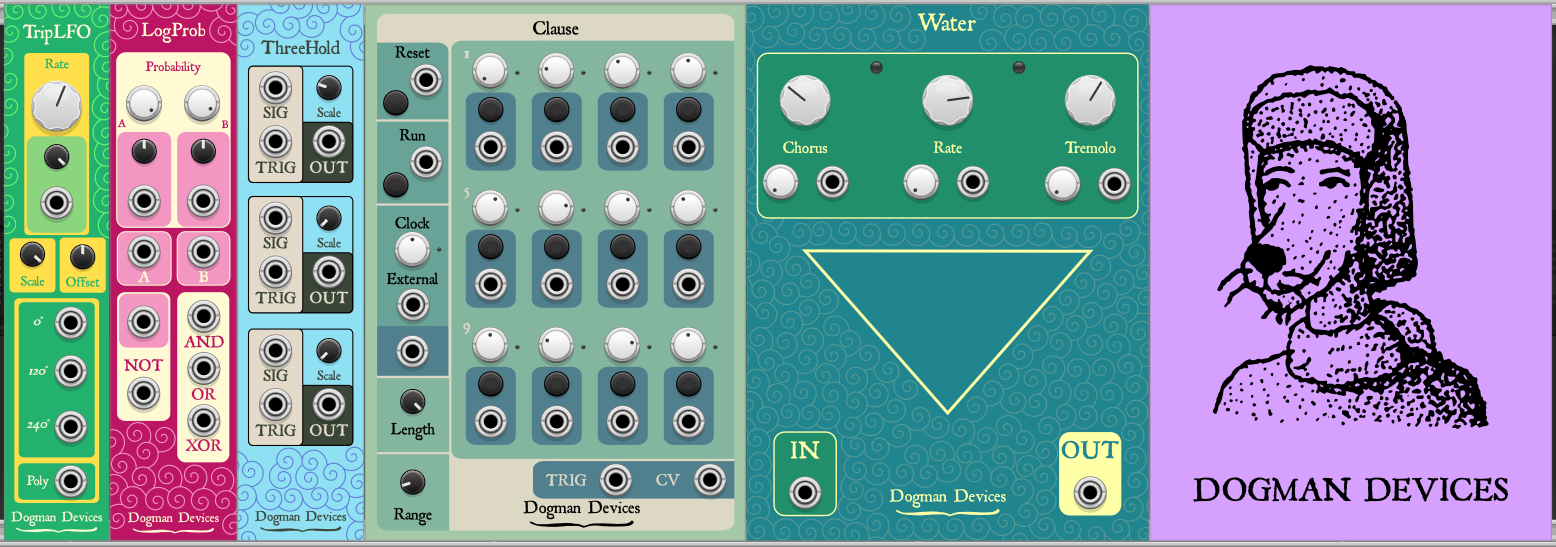
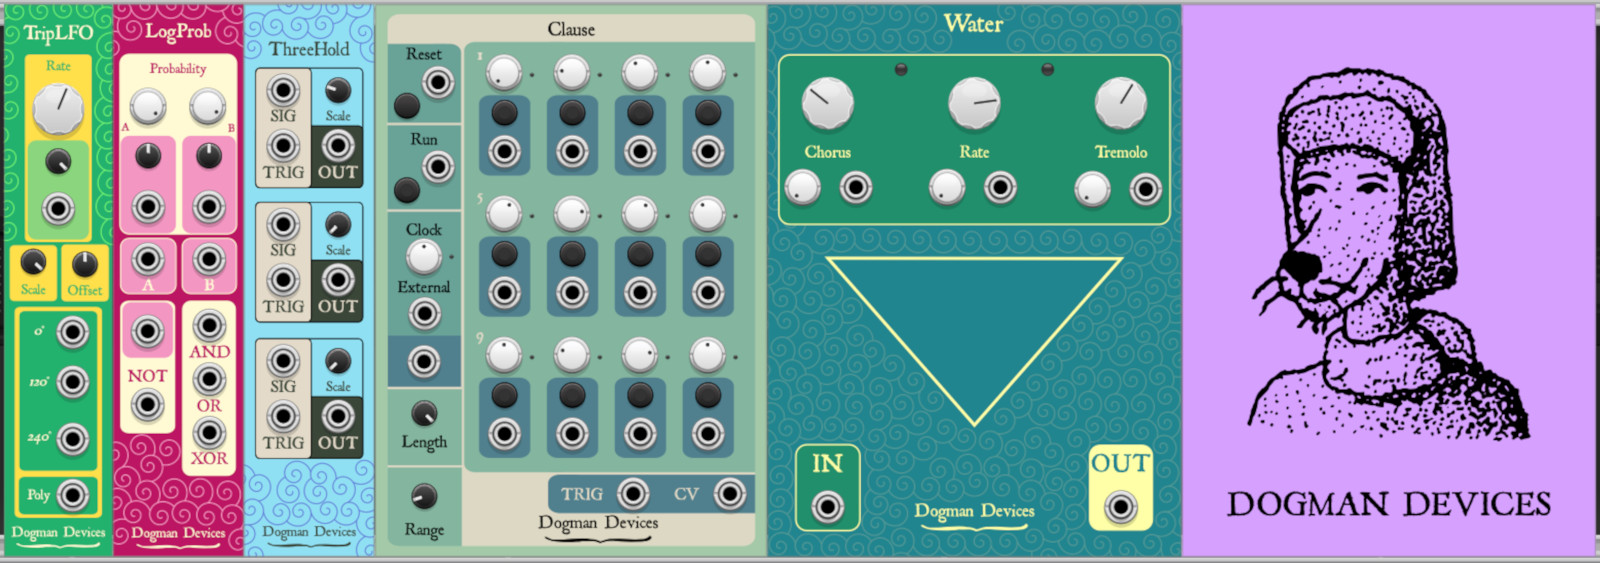
update sytle; add recent projects;

diff --git a/pages/software/software.html b/pages/software/software.html
@@ -30,53 +30,71 @@
       <h1>SOFTWARE</h1>
       <p style="text-align: center;">Examine my code on <a href="https://github.com/lancemgiles" target="_blank">Github</a>.</p>
       <p>I initially became interested in software through video games. It seemed like an interesting way to combine several of my interests.</p>
-      <p>I am releasing my first game, Deodar, on Steam on July 15, 2025.</p>
-      <p>I have experience with Godot (GDscript), Lua, Python, JavaScript, CSS, HTML, Ruby, and Assembly.</p>
-      <p>I've had some exposure to Java, C, C++ and C#.</p>
+      <p>I have built and shipped one <a href="../deodar/deodar.html">game</a> on Steam and one <a href="https://play.google.com/store/apps/details?id=com.gilessoft.ichingintuition" target="_blank">Android app</a> using Godot.</p>
+      <p>I am designing and <a href="https://github.com/lancemgiles/Dogman-Devices-Rack" target="_blank">coding</a> some virtual modular synthesizer modules for <a href="https://vcvrack.com/" target="_blank">VCV Rack</a> using C++.</p>
+      <p>I have experience with Godot (GDscript and C#), C++, JavaScript, CSS, HTML, and Assembly.</p>
+      <p>I've had some exposure to Java, C, Lua, Python, and Ruby.</p>
+      <p>I've completed courses on HTML, CSS, JavaScript, and React, and I am working on a certificate for foundational C#.</p>
       <div class="row software">
-        <a href="../deodar/deodar.html" class="project">
+        <a class="col" href="../deodar/deodar.html" class="project">
          <figure>
-          <img src="./images/deodar.png" alt="Deodar">
+          <img src="./images/deodar.png" alt="Deodar for Steam">
           <figcaption>Deodar (Steam)</figcaption>
          </figure>
         </a>
-        <a href="https://www.dogmandevices.com/sequencer" target="_blank" class="project">
+        <a class="col"href="https://play.google.com/store/apps/details?id=com.gilessoft.ichingintuition" class="project">
+         <figure>
+          <img src="./images/i_ching.png" alt="I Ching: Intuition for Android">
+          <figcaption>I Ching: Intuition (Android)</figcaption>
+         </figure>
+        </a>
+        <a class="col"href="https://github.com/lancemgiles/Dogman-Devices-Rack" class="project">
+         <figure>
+          <img src="../design/images/rack_modules.png" alt="Dogman Devices VCV Rack Modules">
+          <figcaption>Dogman Devices (VCV Rack)</figcaption>
+         </figure>
+        </a>
+      </div>
+      <div class="row software">
+        <a class="col" href="https://www.dogmandevices.com/sequencer" target="_blank" class="project">
           <figure>
             <img src="./images/sequencer.png" alt="JavaScript Step Sequencer">
             <figcaption> Sequencer</figcaption>
           </figure>
         </a>
-        <a href="https://github.com/lancemgiles/hex2eeprom/tree/main" target="_blank" class="project">
+        <a class="col" href="https://github.com/lancemgiles/hex2eeprom/tree/main" target="_blank" class="project">
           <figure>          
             <img src="./images/hex2eeprom.png" alt="Simple script for digital guitar pedals">
             <figcaption>hex2eeprom</figcaption>
           </figure>
         </a>
-        <a href="./projects/rock-paper-scissors/index.html" target="_blank" class="project">
+        <a class="col" href="./projects/rock-paper-scissors/index.html" target="_blank" class="project">
           <figure>          
             <img src="./images/rps.png" alt="rock, paper, scissors">
             <figcaption>Rock, Paper, Scissors</figcaption>
           </figure>
         </a>
-        <a href="./projects/sketch/sketch.html" target="_blank" class="project">
+      </div>
+      <div class="row software">
+        <a class="col" href="./projects/sketch/sketch.html" target="_blank" class="project">
           <figure>
             <img src="./images/sketch.png" alt="sketch">
             <figcaption>Sketch</figcaption>
           </figure>
         </a>
-        <a href="./projects/crystalOracle/crystalOracle.html" target="_blank" class="project">
+        <a class="col" href="./projects/crystalOracle/crystalOracle.html" target="_blank" class="project">
           <figure>
             <img src="./images/crystalOracle.png" alt="Ask the crystal ball.">
             <figcaption>Crystal Oracle</figcaption>
           </figure>
         </a>
-        <a href="https://github.com/lancemgiles/endlessDesert" target="_blank" class="project">
+        <a class="col" href="https://github.com/lancemgiles/endlessDesert" target="_blank" class="project">
           <figure>
             <img src="./images/endlessDesert.png" alt="Endless Desert">
             <figcaption>Endless Desert</figcaption>
           </figure>
         </a>
-        <a href="./projects/dashboard/index.html" target="_blank" class="project">
+        <a class="col" href="./projects/dashboard/index.html" target="_blank" class="project">
           <figure>
             <img src="./images/dash.png" alt="Dashboard">
             <figcaption>Admin Dashboard</figcaption>

diff --git a/pages/writing/writing.html b/pages/writing/writing.html
@@ -106,19 +106,19 @@
       <section id="blogs">
         <h2>Blogs</h2>
         <div class="row">
-          <a href="https://www.pocketbiome.com" target="_blank" class="project">
-            <figure>
-              <img src="./images/pocketbiome-cropped.png" alt="pocket biome - experimental literature">
-              <figcaption>pocket biome - experimental literature</figcaption>
-            </figure>
-          </a>
+            <a class="col" href="https://www.pocketbiome.com" target="_blank" class="project">
+              <figure>
+                <img src="./images/pocketbiome-cropped.png" alt="pocket biome - experimental literature">
+                <figcaption>pocket biome - experimental literature</figcaption>
+              </figure>
+            </a>
 
-          <a href="https://www.dogmandevices.com/ideas" target="blank_" class="project">
-            <figure>
-              <img src="./images/dogmandevices.png" alt="dogman devices - handcrafted effect pedals">
-              <figcaption>Dogman Devices</figcaption>
-            </figure>
-          </a>
+            <a class="col" href="https://www.dogmandevices.com/ideas" target="blank_" class="project">
+              <figure>
+                <img src="./images/dogmandevices.png" alt="dogman devices - handcrafted effect pedals">
+                <figcaption>Dogman Devices</figcaption>
+              </figure>
+            </a>
         </div>
       </section>
     </section>

diff --git a/pages/design/design.html b/pages/design/design.html
@@ -34,15 +34,10 @@
 
       <h2>Logos and Products</h2>
 
-      <p style="text-align: center;"">Find more examples of my work with products on my <a href="https://wwww.dogmandevices.com" target="_blank">guitar effect pedal website</a>.</p>
+      <p style="text-align: center;">I've designed several guitar effect pedals and related merchandise for <a href="https://wwww.dogmandevices.com" target="_blank">Dogman Devices</a>, my guitar effect pedal company.</p>
       <br>
       
       <div class="slideshow">
-
-        <div class="slidesProd fade">
-          <img src="./images/rack_modules.png" alt="Dogman Devices VCV Rack modules">
-          <div class=""caption">Dogman Devices VCV Rack modules</div>
-        </div>
 
         <div class="slidesProd fade">
           <img src="./images/logo-m2-banner.png" alt="Dogman Devices logo">
@@ -109,6 +104,10 @@
       </div>
 
       <br>
+      <p style="text-align: center;">I am also in the process of designing and <a href="https://github.com/lancemgiles/Dogman-Devices-Rack" target="_blank">coding</a> some virtual modular synthesizer modules</p>
+      <img src="./images/rack_modules.png" alt="Dogman Devices VCV Rack modules">
+      <div class=""caption">Dogman Devices VCV Rack modules</div>
+      <br>  
       
       <h2>Book and Album Covers</h2>
 

diff --git a/pages/deodar/deodar.html b/pages/deodar/deodar.html
@@ -32,7 +32,7 @@
       <img src="./images/deodar.png" alt="Deodar title screen">
       <p>This is my first complete and polished video game. It was published on Steam on July 15th, 2025 for Linux and Windows.</p>
       
-      <iframe width="560" height="315" src="https://www.youtube.com/embed/laoU-lu7maE?si=E4CI-arLhJMzoHu7" title="YouTube video player" frameborder="0" allow="accelerometer; autoplay; clipboard-write; encrypted-media; gyroscope; picture-in-picture; web-share" referrerpolicy="strict-origin-when-cross-origin" allowfullscreen></iframe>
+      <iframe width="560" height="315" src="https://www.youtube.com/embed/laoU-lu7maE?si=E4CI-arLhJMzoHu7&origin=youtube" title="YouTube video player" frameborder="0" allow="accelerometer; autoplay; clipboard-write; encrypted-media; gyroscope; picture-in-picture; web-share" referrerpolicy="strict-origin-when-cross-origin" allowfullscreen></iframe>
 
       <h2>Technologies utilized:</h2>
 

diff --git a/style.css b/style.css
@@ -7,13 +7,13 @@
 
 :root {
   --text: #0D1821;
-  --bodyLink: #AD7A03;
+  --bodyLink: #603cff;
   --bg: #88D498;
   --nav: #114B5F;
   --navLink: #F0F4EF;
   --line: #0D1821;
   --special: #C6DABF;
-  --alt: #1A936F;
+  --alt: #1a9393;
 }
 
 @media (prefers-reduced-motion: no-preference) {
@@ -84,8 +84,12 @@ nav a:hover {
   align-items: center;
   justify-content: center;
   gap: 5%;
-  padding-left: 15%;
-  padding-right: 15%;
+  padding-left: 5%;
+  padding-right: 5%;
+}
+
+.col {
+  flex: 1;
 }
 
 section a {
